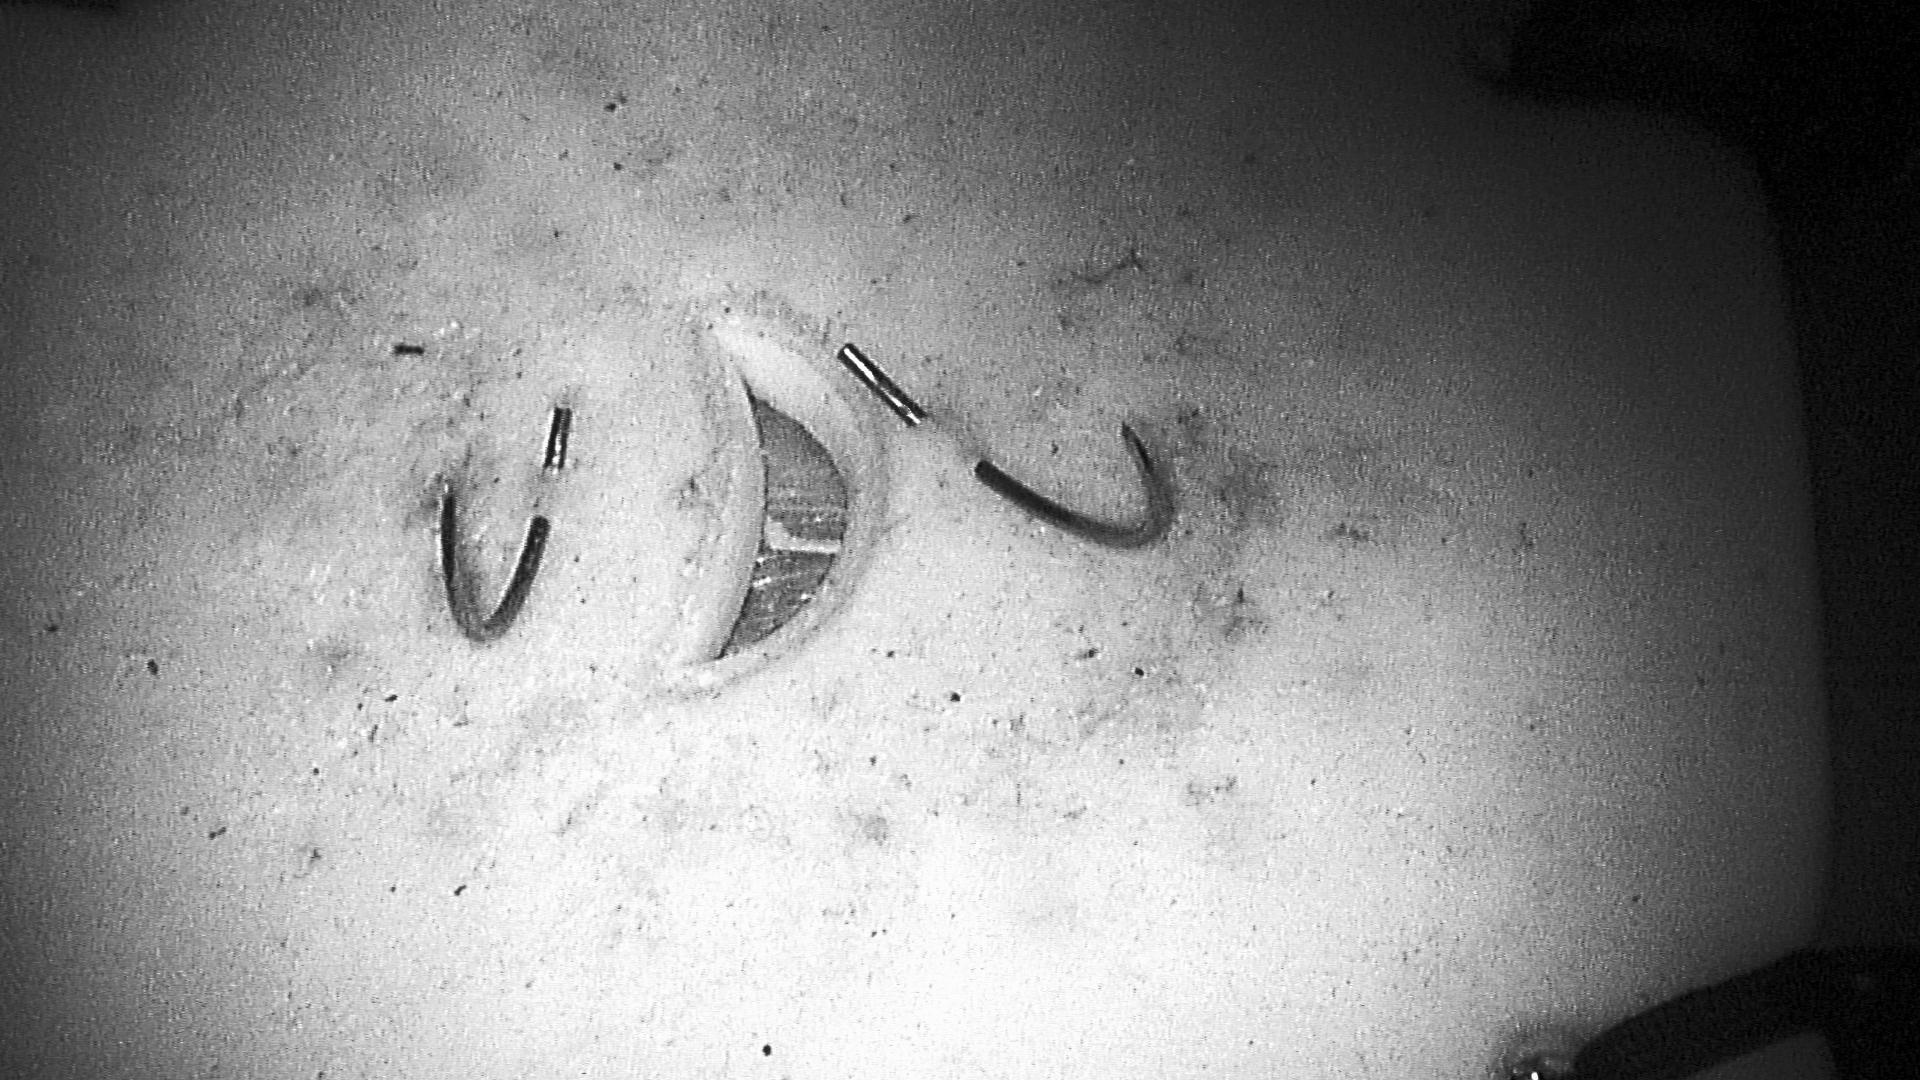
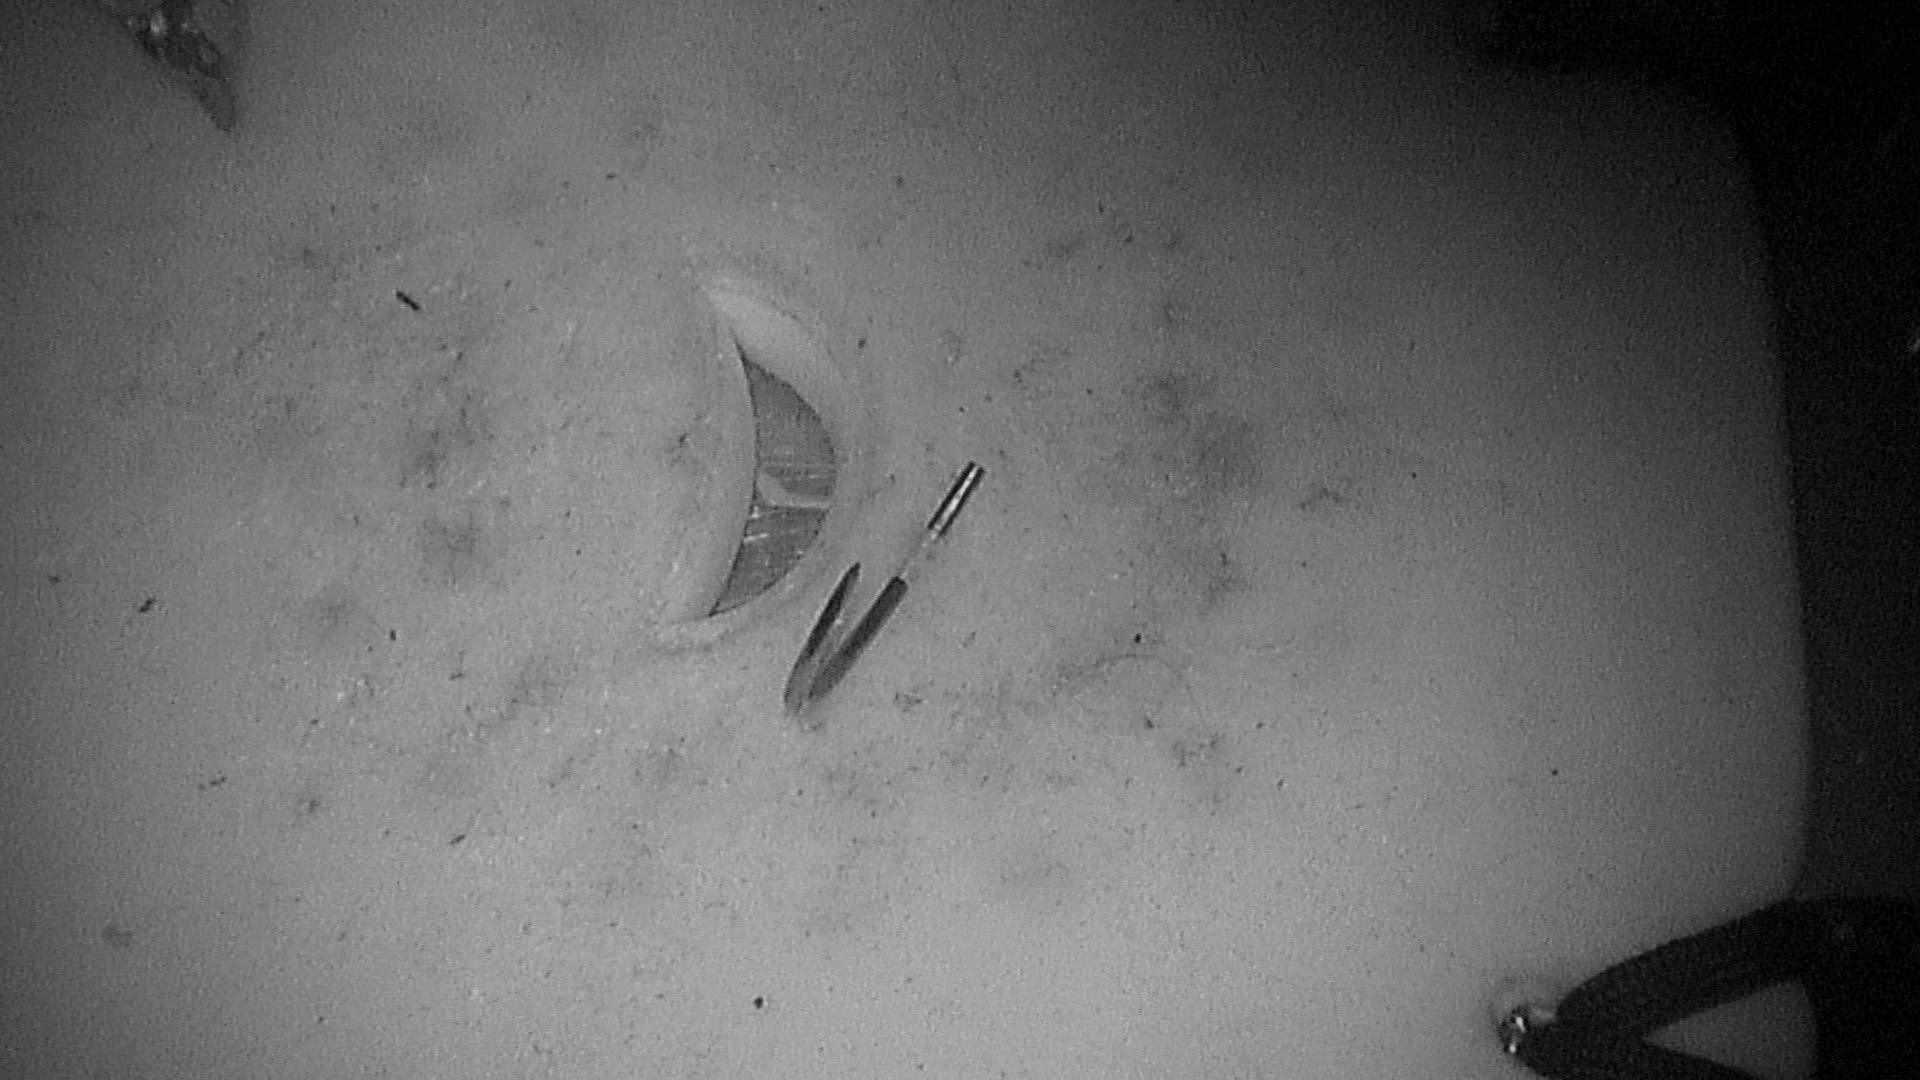
Wrote script for finding embedded needles

diff --git a/find_embedded.py b/find_embedded.py
@@ -1,0 +1,230 @@
+import image_geometry
+import rospy
+from geometry_msgs.msg import PointStamped, Point
+import cv2
+import cv_bridge
+import numpy as np
+import rospy, scipy.misc
+from sensor_msgs.msg import Image, CameraInfo
+import time
+import pprint
+import pickle
+
+USE_SAVED_IMAGES = False
+
+def convertStereo(u, v, disparity, info=None):
+    """
+    Converts two pixel coordinates u and v along with the disparity to give PointStamped
+    """
+    stereoModel = image_geometry.StereoCameraModel()
+    if info is None:
+        with open("camera_data/camera_info.p", "rb") as f:
+            info = pickle.load(f)
+    stereoModel.fromCameraInfo(info['l'], info['r'])
+    (x,y,z) = stereoModel.projectPixelTo3d((u,v), disparity)
+
+    cameraPoint = PointStamped()
+    cameraPoint.header.frame_id = info['l'].header.frame_id
+    cameraPoint.header.stamp = rospy.Time.now()
+    cameraPoint.point = Point(x,y,z)
+    return cameraPoint
+
+def projectToPixel(pt, info=None):
+    x, y, z = pt
+    if info is None:
+        with open("camera_data/camera_info.p", "rb") as f:
+            info = pickle.load(f)
+    stereoModel = image_geometry.StereoCameraModel()
+    stereoModel.fromCameraInfo(info['l'], info['r'])
+    left, right = stereoModel.project3dToPixel((x, y, z))
+    return (left, right)
+
+class EmbeddedDetector:
+
+    def __init__(self):
+        self.bridge = cv_bridge.CvBridge()
+        self.left_image = None
+        self.right_image = None
+        self.corrected_left = None
+        self.corrected_right = None
+        self.info = {'l': None, 'r': None, 'b': None, 'd': None}
+        self.plane = None
+        self.area_lower = 1000
+        self.area_upper = 20000
+        self.box_upper = 40000
+        self.ellipse_lower = 1300
+        self.ellipse_upper = 120000
+
+        #========SUBSCRIBERS========#
+        # image subscribers
+        rospy.init_node('circle_detector', anonymous=True)
+        rospy.Subscriber("/endoscope/left/image_rect_color", Image,
+                         self.left_image_callback, queue_size=1)
+        rospy.Subscriber("/endoscope/right/image_rect_color", Image,
+                         self.right_image_callback, queue_size=1)
+        # info subscribers
+        rospy.Subscriber("/endoscope/left/camera_info",
+                         CameraInfo, self.left_info_callback)
+        rospy.Subscriber("/endoscope/right/camera_info",
+                         CameraInfo, self.right_info_callback)
+
+    def left_info_callback(self, msg):
+        if self.info['l']:
+            return
+        self.info['l'] = msg
+
+    def right_info_callback(self, msg):
+        if self.info['r']:
+            return
+        self.info['r'] = msg
+
+    def right_image_callback(self, msg):
+        if rospy.is_shutdown():
+            return
+        if USE_SAVED_IMAGES:
+            self.right_image = cv2.imread('right_checkerboard.jpg')
+        else:
+            self.right_image = self.bridge.imgmsg_to_cv2(msg, "bgr8")
+        if self.left_image is not None:
+            self.corrected_left = self.preprocess(self.left_image)
+            self.corrected_right = self.preprocess(self.right_image)
+            self.process_image(self.corrected_left, self.corrected_right)
+
+    def left_image_callback(self, msg):
+        if rospy.is_shutdown():
+            return
+        if USE_SAVED_IMAGES:
+            self.left_image = cv2.imread('left_checkerboard.jpg')
+        else:
+            self.left_image = self.bridge.imgmsg_to_cv2(msg, "bgr8")
+        # if self.right_image != None:
+        #     self.process_image()
+
+    def get_points_3d(self, left_points, right_points):
+        """ this method assumes that corresponding points are in the right order
+            and returns a list of 3d points """
+
+        # both lists must be of the same lenghth otherwise return None
+        if len(left_points) != len(right_points):
+            rospy.logerror("The number of left points and the number of right points is not the same")
+            return None
+
+        points_3d = []
+        for i in range(len(left_points)):
+            a = left_points[i]
+            b = right_points[i]
+            disparity = abs(a[0]-b[0])
+            pt = convertStereo(a[0], a[1], disparity, self.info)
+            points_3d.append(pt)
+        return points_3d
+
+    def closest_to_centroid(self, contour_points, cX, cY):
+        return min(contour_points, key=lambda c: abs(cv2.pointPolygonTest(c,(cX,cY),True)))
+
+    def report(self, contour, area, cX, cY, closest, ellipse_area, box_area):
+        print('Contour Detected')
+        print('Contour Area:', area)
+        print('Centroid', cX, cY)
+        print('Closest Point', closest[0], closest[1])
+        print('Ellipse Area:', ellipse_area)
+        print('Box Area:', box_area)
+        print('---')
+
+    def preprocess(self, image):
+        image_in = cv2.cvtColor(image, cv2.COLOR_BGR2RGB)
+        scipy.misc.imsave("camera_data/uncorrected.jpg", image_in)
+        h, s, v = cv2.split(cv2.cvtColor(image_in, cv2.COLOR_RGB2HSV))
+        nonSat = s < 180
+        disk = cv2.getStructuringElement(cv2.MORPH_RECT,(3,3))
+        nonSat = cv2.erode(nonSat.astype(np.uint8), disk)
+        v2 = v.copy()
+        v2[nonSat == 0] = 0
+        glare = v2 > 240;
+        glare = cv2.dilate(glare.astype(np.uint8), disk);
+        corrected = cv2.inpaint(image_in, glare, 5, cv2.INPAINT_NS)
+        scipy.misc.imsave("camera_data/corrected.jpg", corrected)
+        img_yuv = cv2.cvtColor(corrected, cv2.COLOR_BGR2YUV)
+        img_yuv[:,:,0] = cv2.equalizeHist(img_yuv[:,:,0])
+        img_output = cv2.cvtColor(img_yuv, cv2.COLOR_YUV2BGR)
+        scipy.misc.imsave("camera_data/equalized.jpg", img_output)
+        gray = cv2.cvtColor(corrected, cv2.COLOR_RGB2GRAY)
+        scipy.misc.imsave('camera_data/gray.jpg', gray)
+        thresh = cv2.threshold(gray, 127, 255, cv2.THRESH_BINARY_INV + cv2.THRESH_OTSU)[1]
+        scipy.misc.imsave('camera_data/thresh.jpg', thresh)
+        return thresh
+
+
+    # Working now
+    def process_image(self, *images):
+        left, right = [], []
+        for image in images:
+            im2, contours, hierarchy = cv2.findContours(image, cv2.RETR_EXTERNAL, cv2.CHAIN_APPROX_SIMPLE)
+            for c in contours:
+                M = cv2.moments(c)
+                area = cv2.contourArea(c)
+                if int(M["m00"]) != 0 and (self.area_lower < area < self.area_upper):
+
+                    cX = int(M["m10"] / M["m00"])
+                    cY = int(M["m01"] / M["m00"])
+                    closest = np.vstack(self.closest_to_centroid(c, cX, cY)).squeeze()
+                    true_center = (closest[0], closest[1])
+
+                    ellipse = cv2.fitEllipse(c)
+                    (x,y), (ma,MA), angle = ellipse
+                    ellipse_aspect = ma/MA
+                    ellipse_area = (np.pi * ma * MA)/4
+
+                    rect = cv2.minAreaRect(c)
+                    (x,y), (dim1, dim2), angle = rect
+                    width, height = min(dim1, dim2), max(dim1, dim2)
+                    box_area = width * height
+                    box_aspect = width / height
+                    box = cv2.boxPoints(rect)
+                    box = np.int0(box)
+
+                    ratio = max(box_area, ellipse_area)/min(box_area, ellipse_area)
+
+                    if box_area < self.box_upper and self.ellipse_lower < ellipse_area < self.ellipse_upper:
+                        if image is self.corrected_right:
+                            right.append(true_center)
+                            cv2.putText(self.right_image, "center", (cX - 20, cY - 20), cv2.FONT_HERSHEY_SIMPLEX, 0.5, (255, 255, 255), 2)
+                            cv2.circle(self.right_image, true_center, 10, (0, 0, 0), -1)
+                            self.report(c, area, cX, cY, closest, ellipse_area, box_area)
+                            cv2.ellipse(self.right_image, ellipse, (0, 0, 255), 2)
+                            cv2.drawContours(self.right_image,[box],0,(0,255,0),2)
+                            rows,cols = self.right_image.shape[:2]
+                            line = cv2.fitLine(c, cv2.DIST_L2,0,0.01,0.01)
+                            [vx,vy,x,y] = line
+                            lefty = int((-x*vy/vx) + y)
+                            righty = int(((cols-x)*vy/vx)+y)
+                            cv2.line(self.right_image,(cols-1,righty),(0,lefty),(255, 0, 0),2)
+                        else:
+                            left.append(true_center)
+                        
+                    # else:
+                    #     cv2.drawContours(image, [c], -1, (0, 0, 255), 2)
+                    #     cv2.ellipse(image, ellipse, (0, 0, 255), 2)
+                    #     cv2.putText(image, "REJECTED", (cX - 20, cY - 20), cv2.FONT_HERSHEY_SIMPLEX, 0.5, (255, 255, 255), 2)
+        if len(right) > 0 and len(right) == len(left):
+            pts3d = self.get_points_3d(left, right)
+            print("Found")
+            self.pts = [(p.point.x, p.point.y, p.point.z) for p in pts3d]
+            pprint.pprint(self.pts)
+            with open('needle_data/needle_points.p', "w+") as f:
+                pickle.dump(self.pts, f)
+            rospy.signal_shutdown("Finished.")
+        return
+            # scipy.misc.imsave('camera_data/fitted.jpg', image)
+
+
+if __name__ == "__main__":
+    a = EmbeddedDetector()
+    while 1:
+        frame = a.right_image
+        if frame is None:
+            continue
+        cv2.imshow('frame', frame)
+        if cv2.waitKey(1) & 0xFF == ord('q'):
+            break
+    cv2.destroyAllWindows()
+    # rospy.spin()

diff --git a/embedded.py b/embedded.py
@@ -22,10 +22,11 @@ class EmbeddedNeedleDetector():
         self.corrected_right = None
         self.info = {'l': None, 'r': None, 'b': None, 'd': None}
         self.plane = None
-        self.area_lower = 500
-        self.area_upper = 30000
-        self.ellipse_area_lower = 1500
-        self.ellipse_area_upper = 200000
+        self.area_lower = 1000
+        self.area_upper = 20000
+        self.box_upper = 40000
+        self.ellipse_lower = 1300
+        self.ellipse_upper = 120000
 
         #========SUBSCRIBERS========#
         # image subscribers
@@ -73,13 +74,13 @@ class EmbeddedNeedleDetector():
     def closest_to_centroid(self, contour_points, cX, cY):
         return min(contour_points, key=lambda c: abs(cv2.pointPolygonTest(c,(cX,cY),True)))
 
-    def report(self, contour, area, cX, cY, closest, ellipse_area, ellipse_aspect):
+    def report(self, contour, area, cX, cY, closest, ellipse_area, box_area):
         print('Contour Detected')
         print('Contour Area:', area)
         print('Centroid', cX, cY)
         print('Closest Point', closest[0], closest[1])
         print('Ellipse Area:', ellipse_area)
-        print('Ellipse Aspect:', ellipse_aspect)
+        print('Box Area:', box_area)
         print('---')
 
     def preprocess(self, image):
@@ -99,7 +100,7 @@ class EmbeddedNeedleDetector():
         img_yuv[:,:,0] = cv2.equalizeHist(img_yuv[:,:,0])
         img_output = cv2.cvtColor(img_yuv, cv2.COLOR_YUV2BGR)
         scipy.misc.imsave("camera_data/equalized.jpg", img_output)
-        gray = cv2.cvtColor(img_output, cv2.COLOR_RGB2GRAY)
+        gray = cv2.cvtColor(corrected, cv2.COLOR_RGB2GRAY)
         scipy.misc.imsave('camera_data/gray.jpg', gray)
         thresh = cv2.threshold(gray, 127, 255, cv2.THRESH_BINARY_INV + cv2.THRESH_OTSU)[1]
         scipy.misc.imsave('camera_data/thresh.jpg', thresh)
@@ -136,11 +137,11 @@ class EmbeddedNeedleDetector():
 
             	ratio = max(box_area, ellipse_area)/min(box_area, ellipse_area)
 
-            	if ellipse_aspect < 0.75 and (self.ellipse_area_lower < ellipse_area < self.ellipse_area_upper):
-            		cv2.circle(self.right_image, (cX, cY), 7, (255, 255, 255), -1)
+            	if box_area < self.box_upper and self.ellipse_lower < ellipse_area < self.ellipse_upper:
+            		# cv2.circle(self.right_image, (cX, cY), 7, (255, 255, 255), -1)
             		cv2.putText(self.right_image, "center", (cX - 20, cY - 20), cv2.FONT_HERSHEY_SIMPLEX, 0.5, (255, 255, 255), 2)
             		cv2.circle(self.right_image, true_center, 10, (0, 0, 0), -1)
-            		self.report(c, area, cX, cY, closest, ellipse_area, ellipse_aspect)
+            		self.report(c, area, cX, cY, closest, ellipse_area, box_area)
             		cv2.ellipse(self.right_image, ellipse, (0, 0, 255), 2)
             		cv2.drawContours(self.right_image,[box],0,(0,255,0),2)
             		rows,cols = self.right_image.shape[:2]
@@ -148,7 +149,7 @@ class EmbeddedNeedleDetector():
             		[vx,vy,x,y] = line
             		lefty = int((-x*vy/vx) + y)
             		righty = int(((cols-x)*vy/vx)+y)
-            		# cv2.line(self.right_image,(cols-1,righty),(0,lefty),(255, 0, 0),2)
+            		cv2.line(self.right_image,(cols-1,righty),(0,lefty),(255, 0, 0),2)
                     
                 # else:
                 #     cv2.drawContours(self.right_image, [c], -1, (0, 0, 255), 2)

diff --git a/move.py b/move.py
@@ -39,9 +39,9 @@ def pickup(psm, points, z_upper, z_lower):
 		time.sleep(.25)
 		psm.move(PyKDL.Vector(x, y, z_lower))
 		time.sleep(.25)
-		print("Grasping...")
-		psm.close_jaw()
-		time.sleep(.25)
+		# print("Grasping...")
+		# psm.close_jaw()
+		# time.sleep(.25)
 		print("Grasped...")
 		psm.move(PyKDL.Vector(x, y, z_upper))
 		time.sleep(.25)
@@ -63,7 +63,10 @@ if __name__ == '__main__':
 	z_upper = -0.115688
 
 	""" Where PSM2 touches the platform """
-	z_lower = -0.1233
+	# For white background:
+	# z_lower = -0.1233
+	# For non-white background:
+	z_lower = -0.128
 
 	""" POSE PSM2 WAS CALIBRATED IN """
 	pos = PyKDL.Vector(-0.118749, 0.0203151, -0.111688)
